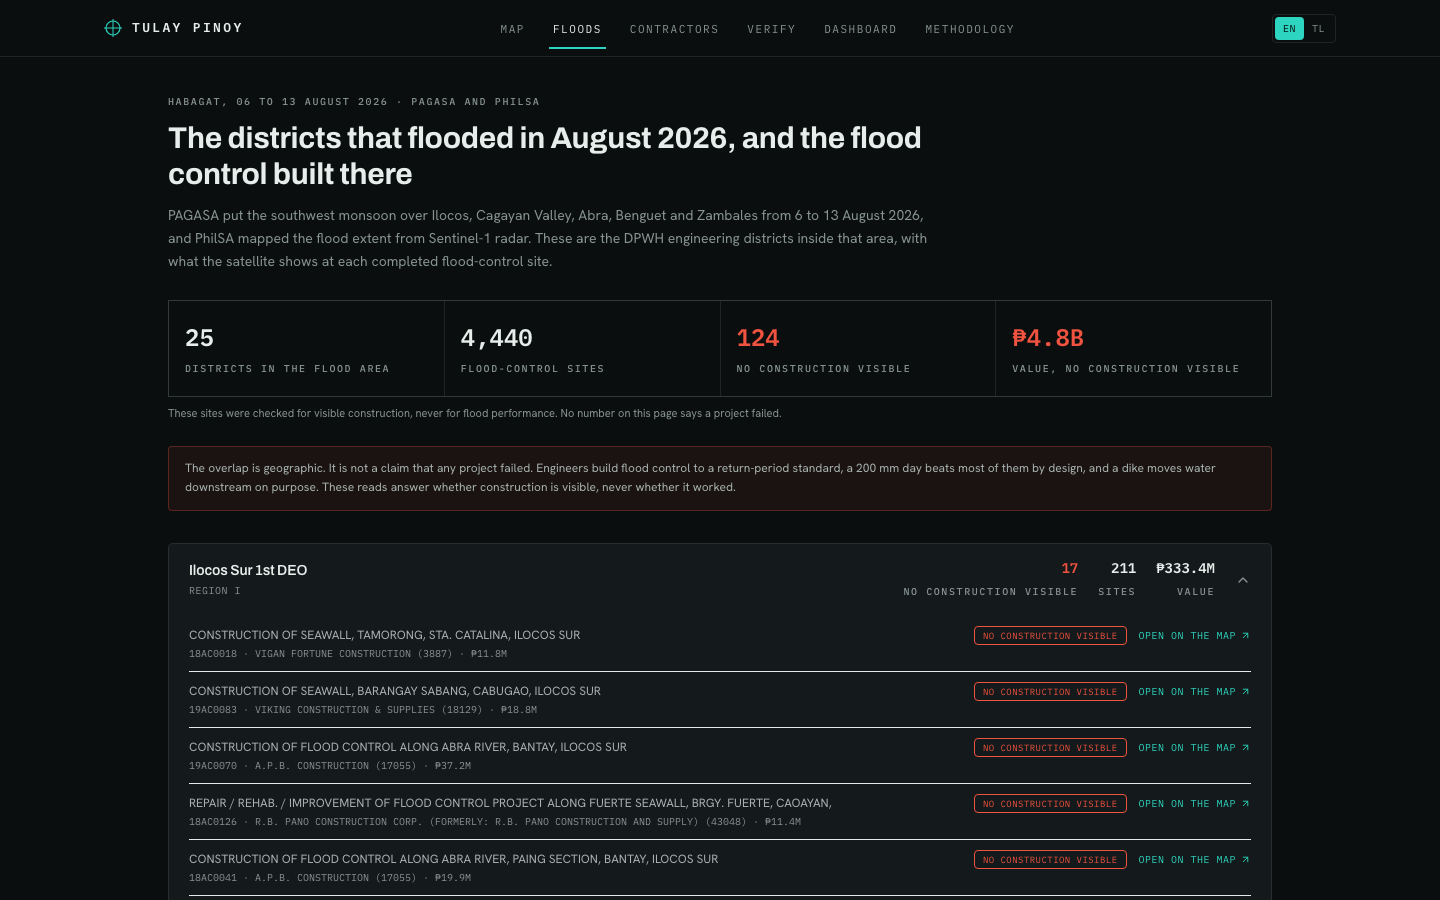
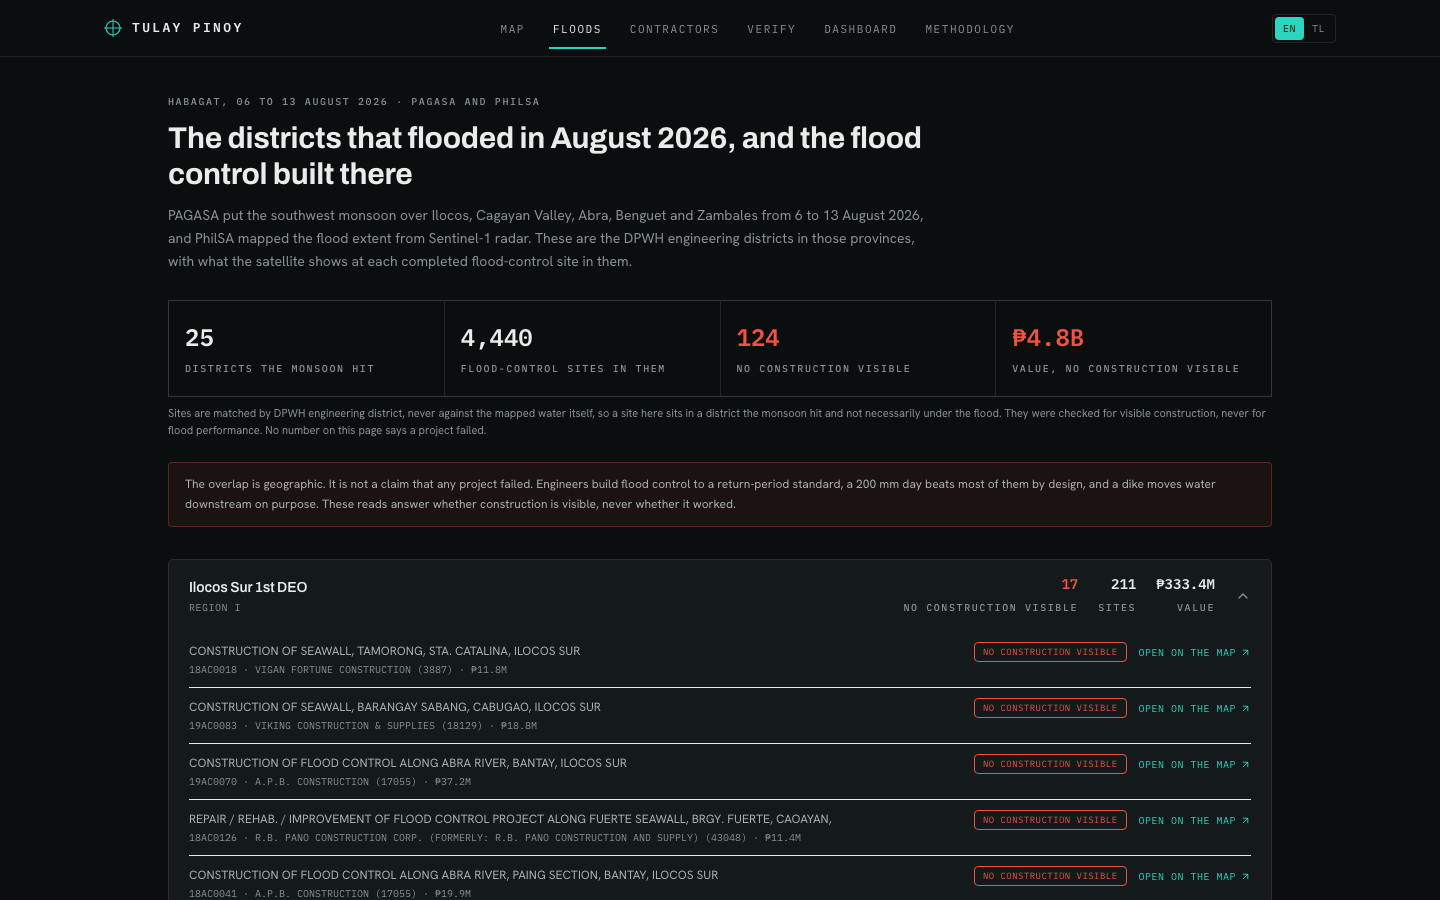
Say the flood match is by district, not against the mapped water
The join is a district-name match. The page said sites sit "in the flood area",
which claims a spatial intersection nobody computed. The tiles now read
"districts the monsoon hit" and "flood-control sites in them", and the note
under them says the match is administrative.

diff --git a/web/src/lib/lang.tsx b/web/src/lib/lang.tsx
@@ -102,9 +102,9 @@ export const STRINGS = {
     floodsKicker: "Habagat, 06 to 13 August 2026 · PAGASA and PhilSA",
     floodsTitle: "The districts that flooded in August 2026, and the flood control built there",
     floodsSub:
-      "PAGASA put the southwest monsoon over Ilocos, Cagayan Valley, Abra, Benguet and Zambales from 6 to 13 August 2026, and PhilSA mapped the flood extent from Sentinel-1 radar. These are the DPWH engineering districts inside that area, with what the satellite shows at each completed flood-control site.",
-    floodsStatDistricts: "districts in the flood area",
-    floodsStatProjects: "flood-control sites",
+      "PAGASA put the southwest monsoon over Ilocos, Cagayan Valley, Abra, Benguet and Zambales from 6 to 13 August 2026, and PhilSA mapped the flood extent from Sentinel-1 radar. These are the DPWH engineering districts in those provinces, with what the satellite shows at each completed flood-control site in them.",
+    floodsStatDistricts: "districts the monsoon hit",
+    floodsStatProjects: "flood-control sites in them",
     floodsStatNotVisible: "no construction visible",
     floodsStatValue: "value, no construction visible",
     floodsColDistrict: "District",
@@ -118,7 +118,7 @@ export const STRINGS = {
     floodsSourceLink: "PhilSA flood maps",
     floodsSourceTail: "Project records from the public DPWH transparency dataset.",
     floodsMeasuredNote:
-      "These sites were checked for visible construction, never for flood performance. No number on this page says a project failed.",
+      "Sites are matched by DPWH engineering district, never against the mapped water itself, so a site here sits in a district the monsoon hit and not necessarily under the flood. They were checked for visible construction, never for flood performance. No number on this page says a project failed.",
     floodsDisclaimer:
       "The overlap is geographic. It is not a claim that any project failed. Engineers build flood control to a return-period standard, a 200 mm day beats most of them by design, and a dike moves water downstream on purpose. These reads answer whether construction is visible, never whether it worked.",
     dataAsOf: "DPWH record as of",
@@ -187,8 +187,8 @@ export const STRINGS = {
     floodsTitle: "Ang mga distritong binaha noong Agosto 2026, at ang flood control na itinayo doon",
     floodsSub:
       "Ayon sa PAGASA, tumama ang habagat sa Ilocos, Cagayan Valley, Abra, Benguet at Zambales mula 6 hanggang 13 Agosto 2026, at minapa ng PhilSA ang lawak ng baha gamit ang Sentinel-1 radar. Ito ang mga distrito ng inhinyeriya ng DPWH sa loob ng lugar na iyon, kasama ang ipinapakita ng satellite sa bawat natapos na proyekto sa flood control.",
-    floodsStatDistricts: "distrito sa lugar ng baha",
-    floodsStatProjects: "sityo ng flood control",
+    floodsStatDistricts: "distritong tinamaan ng habagat",
+    floodsStatProjects: "sityo ng flood control sa loob",
     floodsStatNotVisible: "walang nakikitang konstruksiyon",
     floodsStatValue: "halaga, walang nakikitang konstruksiyon",
     floodsColDistrict: "Distrito",
@@ -202,7 +202,7 @@ export const STRINGS = {
     floodsSourceLink: "Mga mapa ng baha ng PhilSA",
     floodsSourceTail: "Talaan ng proyekto mula sa pampublikong DPWH transparency dataset.",
     floodsMeasuredNote:
-      "Ang mga sityong ito ay sinuri kung may nakikitang konstruksiyon, hindi kung gumana laban sa baha. Walang numero rito na nagsasabing bumagsak ang isang proyekto.",
+      "Ang mga sityo ay tinutugma ayon sa distrito ng inhinyeriya ng DPWH, hindi laban sa nakamapang tubig mismo, kaya ang sityo rito ay nasa distritong tinamaan ng habagat at hindi tiyak na nasa ilalim ng baha. Sinuri ang mga ito kung may nakikitang konstruksiyon, hindi kung gumana laban sa baha. Walang numero rito na nagsasabing bumagsak ang isang proyekto.",
     floodsDisclaimer:
       "Heograpiko lamang ang pagkakapatong. Hindi ito paratang na bumagsak ang anumang proyekto. Ang flood control ay itinatayo ayon sa pamantayan ng return period, ang 200 mm na ulan sa isang araw ay lampas na sa disenyo ng karamihan, at ang dike ay talagang naglilipat ng tubig pababa. Ang basang ito ay tungkol sa kung nakikita ang konstruksiyon, hindi kung gumana ito.",
     dataAsOf: "Talaan ng DPWH noong",

diff --git a/tests/test_accountability_contract.py b/tests/test_accountability_contract.py
@@ -177,6 +177,13 @@ def test_flood_disclaimer_refuses_the_did_it_work_reading():
     assert "not a claim that any project failed" in text
 
 
+def test_flood_disclaimer_says_the_match_is_administrative():
+    """The join is a district-name match, never a spatial one against the mapped
+    water. The page must not let "in the flood area" stand for that."""
+    text = floods()["disclaimer"].lower()
+    assert "geographic" in text
+
+
 def test_flood_districts_sit_in_the_regions_the_monsoon_covered():
     """Province names repeat across the country. Matching on the name alone put
     Cagayan de Oro City (Region X) and Isabela City (Region IX) on this page."""
